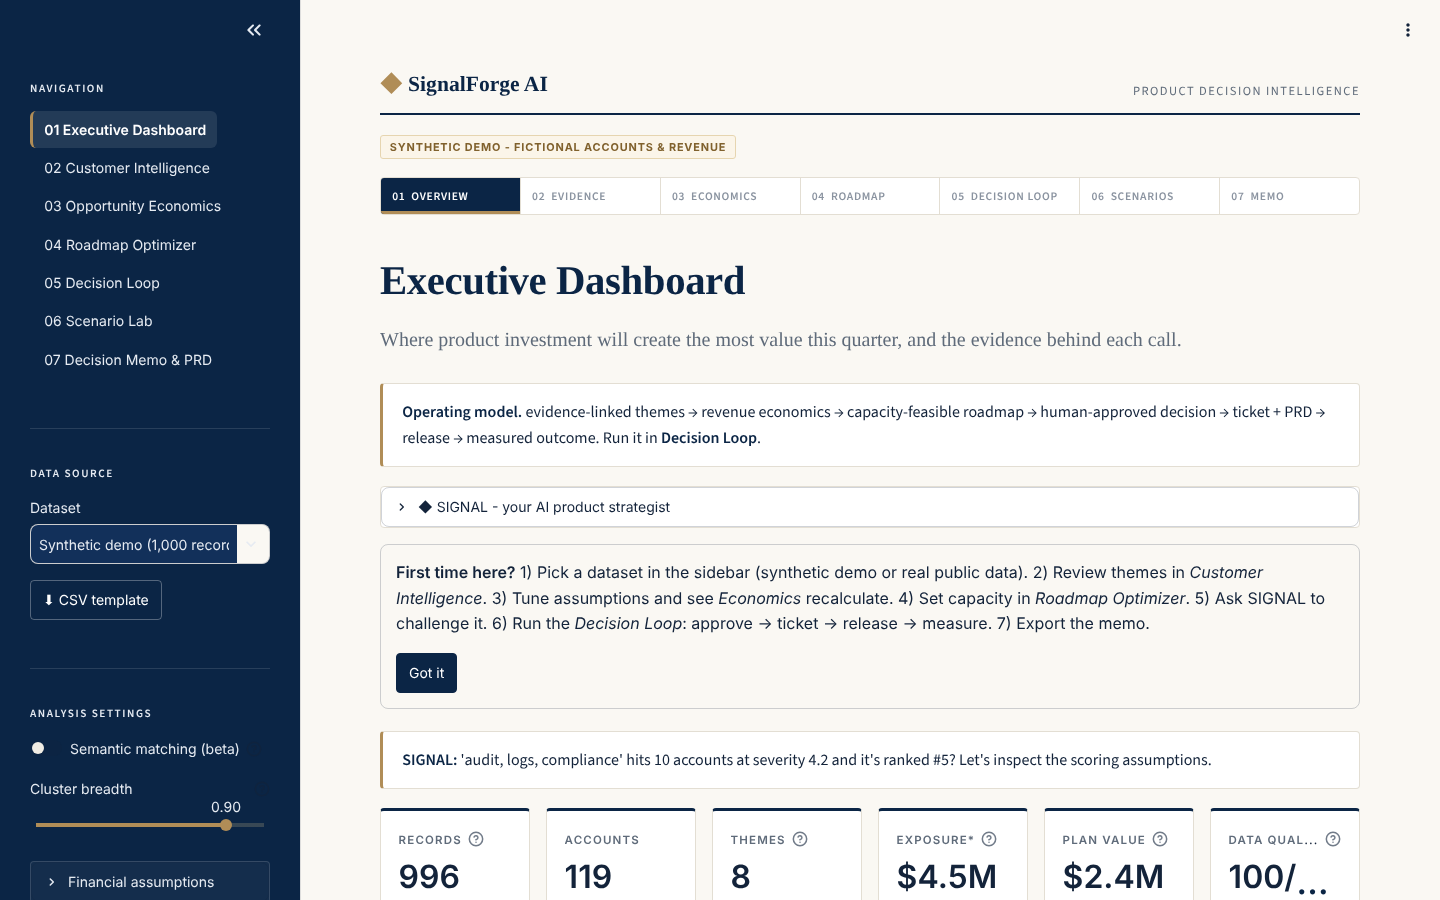
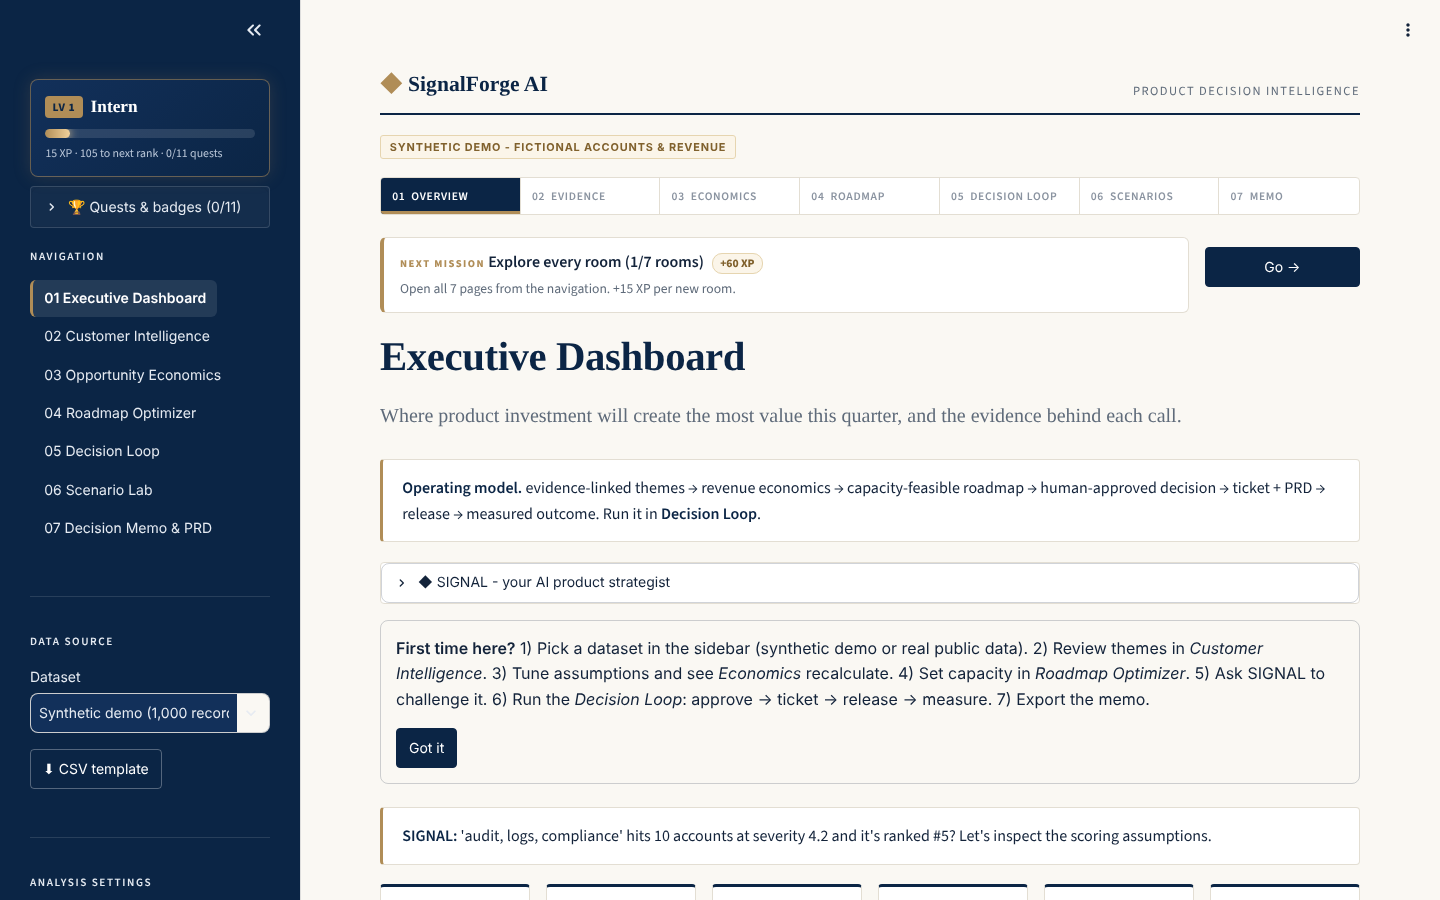
Game layer: XP, levels, quests, combos, badges, next-mission card
Claude-Session: https://claude.ai/code/session_019GsoMYbqVDgoHLZQSKVKYG

diff --git a/app.py b/app.py
@@ -11,6 +11,7 @@ import plotly.io as pio
 import streamlit as st
 
 from signalforge import evidence_quality as EQ
+from signalforge import gamify as G
 from signalforge import lifecycle as LC
 from signalforge import telemetry as TM
 from signalforge.audit import AuditStore, Overrides
@@ -120,6 +121,19 @@ div[data-testid=stVerticalBlockBorderWrapper]{border-radius:4px}
 .sf-muted{color:var(--muted);font-size:.85rem}
 .sf-card{border-radius:4px;padding:1rem 1.2rem;margin:.3rem 0;border:1px solid var(--line);background:var(--card)}
 .sf-good{border-left:3px solid #2f5d43}.sf-mid{border-left:3px solid var(--gold)}.sf-bad{border-left:3px solid #8f2d22}
+.sf-hud{background:linear-gradient(135deg,#12305a,#0b2545);border:1px solid rgba(176,141,87,.55);border-radius:8px;padding:.8rem .9rem;margin:.2rem 0 .6rem;box-shadow:0 0 18px rgba(176,141,87,.18)}
+.sf-hud-top{display:flex;align-items:center;gap:.5rem}
+.sf-lv{background:var(--gold);color:#0b2545!important;font-weight:800;font-size:.72rem;padding:.12rem .45rem;border-radius:4px;letter-spacing:.06em}
+.sf-rank{font-family:Newsreader,Georgia,serif;font-size:1.08rem;font-weight:600;color:#fff!important}
+.sf-combo{margin-left:auto;font-weight:800;color:#ffcf7a!important;animation:sfpulse 1s ease-in-out infinite}
+.sf-xpbar{height:9px;background:rgba(255,255,255,.12);border-radius:6px;margin:.55rem 0 .35rem;overflow:hidden}
+.sf-xpbar div{height:100%;background:linear-gradient(90deg,#b08d57,#f2d29b);border-radius:6px;transition:width .8s ease;box-shadow:0 0 10px #f2d29b}
+.sf-hud-sub{font-size:.74rem;color:#b9c6d8!important}
+.sf-mission{background:var(--card);border:1px solid var(--line);border-left:4px solid var(--gold);border-radius:6px;padding:.7rem 1rem;animation:sfin .5s ease}
+.sf-mission-k{font-size:.66rem;font-weight:800;letter-spacing:.14em;color:var(--gold)}
+.sf-mission-xp{background:#fbf5e9;border:1px solid #e6d5b0;color:#80612d;font-weight:800;font-size:.72rem;padding:.08rem .45rem;border-radius:10px;margin-left:.3rem}
+@keyframes sfpulse{50%{opacity:.55}}
+@keyframes sfin{from{opacity:0;transform:translateY(-4px)}to{opacity:1;transform:none}}
 </style>""", unsafe_allow_html=True)
 st.markdown('<div class="sf-hero"><div class="sf-logo">◆</div><div class="sf-brand">SignalForge AI</div>'
             '<div class="sf-tag">Product Decision Intelligence</div></div>', unsafe_allow_html=True)
@@ -191,6 +205,9 @@ def _on_restore() -> None:
 # ---------------- sidebar: data ----------------
 PAGES = ["Executive Dashboard", "Customer Intelligence", "Opportunity Economics", "Roadmap Optimizer", "Decision Loop", "Scenario Lab", "Decision Memo & PRD"]
 ICON = {p: f"{i + 1:02d}" for i, p in enumerate(PAGES)}
+if "player" not in ss:
+    ss.player = G.Player()
+HUD = st.sidebar.container()  # filled at the end of the run, after this run's actions are scored
 st.sidebar.markdown("##### Navigation")
 page = st.sidebar.radio("Navigate", PAGES, key="page", format_func=lambda n: f"{ICON[n]}   {n}", label_visibility="collapsed")
 st.sidebar.markdown("---")
@@ -369,6 +386,7 @@ cur = PAGES.index(page)
 st.markdown('<div class="sf-steps">' + "".join(
     f'<span class="sf-step {"on" if i == cur else "done" if i < cur else ""}">{ICON[PAGES[i]]}&nbsp;&nbsp;{STEPS[i]}</span>'
     for i in range(len(PAGES))) + "</div>", unsafe_allow_html=True)
+MISSION = st.container()
 
 
 def next_step() -> None:
@@ -953,3 +971,57 @@ st.sidebar.markdown("---")
 if spec:
     with st.sidebar.expander("Data provenance"):
         st.markdown(f"**{spec.name}**  \nLicense: {spec.license}  \nSource: {spec.url}  \n{spec.provenance}  \n*Limits:* {spec.limitations}")
+
+
+# ---------------------------------------------------------------- game layer: score this run, then draw HUD
+def _game_events() -> set[str]:
+    ev = {f"visit:{page}"}
+    keys = [k for k, v in ss.items() if isinstance(k, str) and v is True]
+    hits = lambda *pre: any(k.startswith(pre) for k in keys)  # noqa: E731
+    if hits("q_", "askbtn_") and ss.chat:
+        ev.add("ask")
+    if any(k.startswith("q_") and k.endswith("_9") for k in keys):
+        ev.add("debate")
+    if page == "Customer Intelligence" and hits("b_rename", "b_merge", "b_split", "b_excl", "b_reject"):
+        ev.add("curate")
+    if hits("b_dep", "b_override"):
+        ev.add("constrain")
+    if hits("dl_pack", "dlmd_", "dldocx_", "dlpdf_", "dl_tprd", "dl_ticket"):
+        ev.add("publish")
+    stage = {"proposed": 1, "approved": 2, "in_delivery": 3, "released": 4, "measured": 5}
+    best = max([stage.get(d_.status, 0) for d_ in DB.decisions(WS)], default=0)
+    ev.update(["propose", "approve", "ticket", "ship", "measure"][:best])
+    return ev
+
+
+P = ss.player
+for kind, msg in G.award(P, _game_events(), len(PAGES)):
+    st.toast(msg, icon={"quest": "⭐", "badge": "🏆", "level": "🚀"}.get(kind, "✨"))
+    if kind == "level":
+        st.balloons()
+lv, title, lo, hi = G.level(P.xp)
+pct = int(G.progress(P.xp) * 100)
+with HUD:
+    st.markdown(
+        f'<div class="sf-hud"><div class="sf-hud-top"><span class="sf-lv">LV {lv}</span><span class="sf-rank">{title}</span>'
+        f'{"<span class=sf-combo>🔥 x" + str(P.combo) + "</span>" if P.combo > 1 else ""}</div>'
+        f'<div class="sf-xpbar"><div style="width:{pct}%"></div></div>'
+        f'<div class="sf-hud-sub">{P.xp} XP{f" · {hi - P.xp} to next rank" if hi else " · max rank"} · '
+        f'{len(P.done)}/{len(G.QUESTS)} quests</div></div>', unsafe_allow_html=True)
+    with st.expander(f"🏆 Quests & badges ({len(P.done)}/{len(G.QUESTS)})"):
+        st.markdown("\n".join(f"{'✅' if q[0] in P.done else '⬜'} **{q[1]}** · +{q[2]} XP" for q in G.QUESTS))
+        st.markdown("**Badges:** " + (" · ".join(f"🏅 {b}" for b in P.badges) if P.badges else "none yet. Chain quests within 2 min for combos."))
+nq = G.next_quest(P)
+with MISSION:
+    if nq and nq[0] == "tour":
+        _left = [p_ for p_ in PAGES if p_ not in P.visited]
+        nq = (nq[0], f"{nq[1]} ({len(PAGES) - len(_left)}/{len(PAGES)} rooms)", nq[2], nq[3] + f" +{G.VISIT_XP} XP per new room.", _left[0])
+    if nq:
+        m1, m2 = st.columns([5, 1], vertical_alignment="center")
+        m1.markdown(f'<div class="sf-mission"><span class="sf-mission-k">NEXT MISSION</span> <b>{nq[1]}</b> '
+                    f'<span class="sf-mission-xp">+{nq[2]} XP</span><br><span class="sf-muted">{nq[3]}</span></div>', unsafe_allow_html=True)
+        if nq[4] != page:
+            m2.button("Go →", key="b_mission_go", on_click=_go, args=(nq[4],), width="stretch")
+    else:
+        st.markdown('<div class="sf-mission"><b>🏆 All missions complete.</b> You closed the loop like a Chief Product Officer.</div>',
+                    unsafe_allow_html=True)

diff --git a/src/signalforge/gamify.py b/src/signalforge/gamify.py
@@ -1,0 +1,97 @@
+"""Game layer: XP, levels, quests, combos and badges for a SignalForge session.
+
+Pure logic (no Streamlit) so it is unit-testable. The app turns user actions into event
+strings ("visit:<page>", "ask", "approve", ...) and calls `award` once per rerun.
+"""
+from __future__ import annotations
+
+import time
+from dataclasses import dataclass, field
+
+LEVELS = [(0, "Intern"), (120, "Associate PM"), (300, "Product Manager"), (550, "Senior PM"), (850, "Group PM"),
+          (1200, "Director of Product"), (1650, "VP Product"), (2200, "Chief Product Officer")]
+
+# id, title, xp, hint, page where it is done (ordered = suggested mission path)
+QUESTS = [
+    ("tour", "Explore every room", 60, "Open all 7 pages from the navigation.", "Customer Intelligence"),
+    ("ask", "Consult SIGNAL", 40, "Ask SIGNAL any question, or tap a quick question.", "Executive Dashboard"),
+    ("curate", "Shape a theme", 60, "Rename, merge, split or reject a theme.", "Customer Intelligence"),
+    ("constrain", "Bend the roadmap", 60, "Add a dependency or a ranked override.", "Roadmap Optimizer"),
+    ("propose", "Propose a decision", 80, "Pick an opportunity and propose it.", "Decision Loop"),
+    ("approve", "Get it approved", 100, "Approve the proposed decision.", "Decision Loop"),
+    ("ticket", "Hand off to engineering", 100, "Create the ticket and PRD.", "Decision Loop"),
+    ("ship", "Ship it", 120, "Record the release.", "Decision Loop"),
+    ("measure", "Prove it worked", 150, "Measure the outcome against target.", "Decision Loop"),
+    ("debate", "Survive the boardroom", 50, "Ask SIGNAL to run the decision debate.", "Scenario Lab"),
+    ("publish", "Brief the board", 80, "Download a memo, PRD or decision pack.", "Decision Memo & PRD"),
+]
+QUEST_IDS = [q[0] for q in QUESTS]
+VISIT_XP = 15
+COMBO_WINDOW_S = 120
+MAX_COMBO = 3
+
+
+@dataclass
+class Player:
+    xp: int = 0
+    done: list[str] = field(default_factory=list)
+    visited: list[str] = field(default_factory=list)
+    combo: int = 1
+    last_action: float | None = None
+    started: float = field(default_factory=time.time)
+    badges: list[str] = field(default_factory=list)
+
+
+def level(xp: int) -> tuple[int, str, int, int | None]:
+    """(level number 1-based, title, xp at this level, xp needed for next level or None at max)."""
+    idx = max(i for i, (need, _) in enumerate(LEVELS) if xp >= need)
+    nxt = LEVELS[idx + 1][0] if idx + 1 < len(LEVELS) else None
+    return idx + 1, LEVELS[idx][1], LEVELS[idx][0], nxt
+
+
+def progress(xp: int) -> float:
+    _, _, lo, hi = level(xp)
+    return 1.0 if hi is None else (xp - lo) / (hi - lo)
+
+
+def next_quest(p: Player) -> tuple | None:
+    return next((q for q in QUESTS if q[0] not in p.done), None)
+
+
+def award(p: Player, events: set[str], n_pages: int, now: float | None = None) -> list[tuple[str, str]]:
+    """Apply events; return notifications as (kind, text) where kind is xp|quest|level|badge."""
+    now = time.time() if now is None else now
+    out: list[tuple[str, str]] = []
+    before = level(p.xp)[0]
+    gained = 0
+    for ev in sorted(events):
+        if ev.startswith("visit:"):
+            pg = ev[6:]
+            if pg not in p.visited:
+                p.visited.append(pg)
+                gained += VISIT_XP
+            if len(p.visited) >= n_pages:
+                ev = "tour"
+            else:
+                continue
+        if ev in QUEST_IDS and ev not in p.done:
+            # combo: quests chained within the window multiply XP (x2, x3)
+            p.combo = min(p.combo + 1, MAX_COMBO) if p.last_action is not None and now - p.last_action <= COMBO_WINDOW_S else 1
+            p.last_action = now
+            q = QUESTS[QUEST_IDS.index(ev)]
+            xp = q[2] * p.combo
+            p.done.append(ev)
+            gained += xp
+            out.append(("quest", f"Quest complete: {q[1]}  +{xp} XP" + (f"  (combo x{p.combo})" if p.combo > 1 else "")))
+    p.xp += gained
+    for badge, ok in [("Closed the loop", all(q in p.done for q in ("propose", "approve", "ticket", "ship", "measure"))),
+                      ("Speedrunner", "measure" in p.done and now - p.started <= 600),
+                      ("Combo master", p.combo >= MAX_COMBO),
+                      ("Completionist", len(p.done) == len(QUESTS))]:
+        if ok and badge not in p.badges:
+            p.badges.append(badge)
+            out.append(("badge", f"Badge unlocked: {badge}"))
+    after = level(p.xp)
+    if after[0] > before:
+        out.append(("level", f"Level up! You are now Lv {after[0]} · {after[1]}"))
+    return out

diff --git a/tests/unit/test_gamify.py b/tests/unit/test_gamify.py
@@ -1,0 +1,40 @@
+from signalforge import gamify as G
+
+
+def test_levels_and_progress():
+    assert G.level(0)[:2] == (1, "Intern")
+    assert G.level(300)[1] == "Product Manager"
+    assert G.level(10_000)[3] is None and G.progress(10_000) == 1.0
+    assert 0 <= G.progress(200) < 1
+
+
+def test_quest_awards_once_and_visits_complete_tour():
+    p = G.Player()
+    G.award(p, {"ask"}, 3, now=0)
+    xp = p.xp
+    G.award(p, {"ask"}, 3, now=1)
+    assert p.xp == xp and p.done == ["ask"]
+    for pg in "abc":
+        G.award(p, {f"visit:{pg}"}, 3, now=1000)
+    assert "tour" in p.done and p.visited == ["a", "b", "c"]
+
+
+def test_combo_multiplies_and_caps():
+    p = G.Player()
+    G.award(p, {"propose"}, 7, now=0)
+    G.award(p, {"approve"}, 7, now=30)
+    G.award(p, {"ticket"}, 7, now=60)
+    G.award(p, {"ship"}, 7, now=90)
+    assert p.combo == G.MAX_COMBO
+    assert p.xp == 80 + 100 * 2 + 100 * 3 + 120 * 3
+    G.award(p, {"measure"}, 7, now=10_000)
+    assert p.combo == 1
+
+
+def test_badges_and_level_up_notifications():
+    p = G.Player(started=0)
+    msgs = G.award(p, {"propose", "approve", "ticket", "ship", "measure"}, 7, now=100)
+    kinds = [k for k, _ in msgs]
+    assert "level" in kinds
+    assert {"Closed the loop", "Speedrunner"} <= set(p.badges)
+    assert G.next_quest(p)[0] == "tour"
